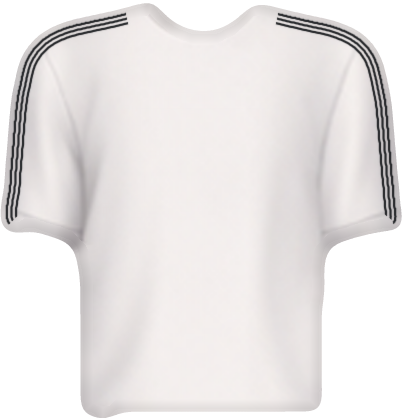
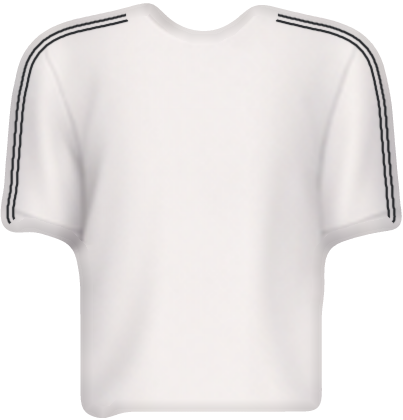
T-shirt à bandes : 2 bandes au lieu de 3 (v103)
Claude-Session: https://claude.ai/code/session_01RffJDTtPaeahFdiXkdY2ya

Changed region(s): [[0.6849, 0.031, 1.0, 0.5262], [0.0, 0.031, 0.3275, 0.5262]]

diff --git a/sw.js b/sw.js
@@ -2,7 +2,7 @@
    Stratégie : réseau d'abord (toujours la dernière version quand il y a internet), copie en cache sinon.
    À l'installation, les fichiers sont téléchargés sans passer par le cache du navigateur (cache: 'reload').
    Nouveau fichier dans le jeu (image, script…) : l'ajouter à FICHIERS et augmenter VERSION. */
-const VERSION = 'v102';
+const VERSION = 'v103';
 const CACHE = 'lycee-' + VERSION;
 const FICHIERS = [
   './', 'index.html', 'manifest.webmanifest', 'assets/logo.png',

diff --git a/js/app.js b/js/app.js
@@ -1,5 +1,5 @@
 /* numéro de version visible dans l'appli (à augmenter avec VERSION dans sw.js) */
-const APP_VERSION='102';
+const APP_VERSION='103';
 /* gemmes mises de côté pour l'instant (demande de Prescillia) : le compteur G.gems continue en silence,
    mais rien ne les montre, ne les coûte ni ne les annonce. Remettre à true pour les réactiver. */
 const GEMS_ON=false;

diff --git a/tools/bandes-garcons.py b/tools/bandes-garcons.py
@@ -1,4 +1,4 @@
-"""T-shirt à bandes des garçons : le t-shirt de la planche (tee-noir / tee-blanc) + 3 fines bandes qui partent du col,
+"""T-shirt à bandes des garçons : le t-shirt de la planche (tee-noir / tee-blanc) + 2 bandes qui partent du col,
    suivent le dessus de l'épaule et descendent sur le côté de la manche jusqu'à l'ourlet (comme sur la planche).
    Les bandes sont tracées à distance fixe du bord du t-shirt : nettes, sans bavure.
    python3 tools/bandes-garcons.py  ->  assets/hauts/bandes-noir.png, bandes-blanc.png (même cadre que tee-*.png)"""
@@ -21,7 +21,7 @@ def bandes(src, dst, col):
     # les bandes ne passent pas sous l'aisselle : seulement le bord du dessus et l'extérieur
     S = W / 202.0   # pixels par unité du jeu
     stripes = np.zeros((H, W), np.float32)
-    for c in (3.2, 5.5, 7.8):
+    for c in (3.6, 6.4):
         w = .8
         stripes = np.maximum(stripes, np.clip(1 - np.abs(dist / S - c) / w, 0, 1) * 1.6)
     stripes = np.clip(stripes, 0, 1) * ok
